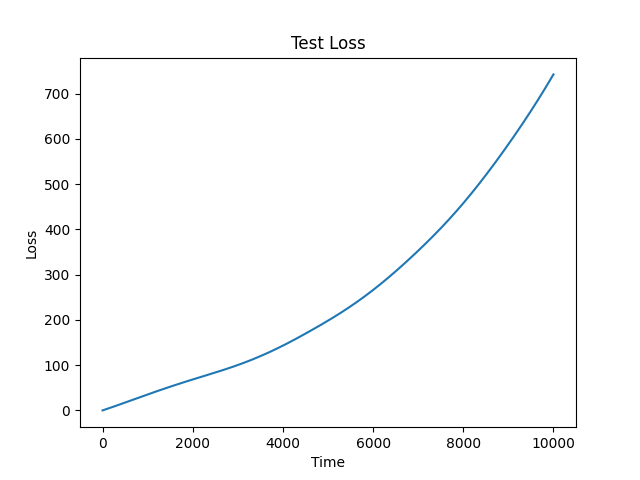
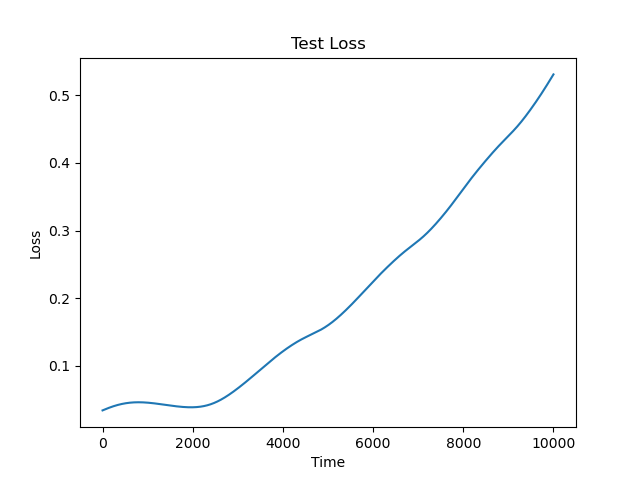
fix

diff --git a/Seaice.py b/Seaice.py
@@ -117,7 +117,7 @@ def test(model, dataset, gif_name):
     for data in tqdm(dataset):
         pred = model.predict(data)
         preds.append(pred)
-        loss += criterion(pred, data)
+        loss = criterion(pred, data)
         losses.append(loss.item())
     
     # create animation
@@ -154,7 +154,6 @@ def test(model, dataset, gif_name):
     plt.close()
     
     return loss.item()
-    
 
 '''
 The main program
@@ -162,7 +161,7 @@ The main program
 print("Start!")
 iterations = 10000 # number of iterations
 dt = 10 ** (-3) # time step
-epochs = 3 # epoches
+epochs = 2 # epoches
 initial_data = np.array([[0.3, 0.7], [0, 0]])
 seaice_dataset = SeaiceDataset(initial_data, iterations, dt)
 seaice_model = SeaiceModel(2, 10, 2)

diff --git a/Report/report.tex b/Report/report.tex
@@ -30,7 +30,7 @@ $$\begin{cases}
 and $$ \frac{x_k(t_{j+1}) - x_k(t_j)}{dt} = v_k(t_j)$$
 
 \subsection{Neural Network}
-The neural network is a feed-forward network with 2 hidden layers shown in Figure 1. The loss funciton used to train the model is $$\Sigma^2_{k=1}(x_k - x_{k,in} - v_k\delta t)$$
+The neural network is a feed-forward network with 2 hidden layers shown in Figure 1. The loss funciton used to train the model is $$\Sigma^2_{k=1}(x_k - x_{k,in} - v_k\delta t)^2$$
 
 \begin{figure}
     \centering
